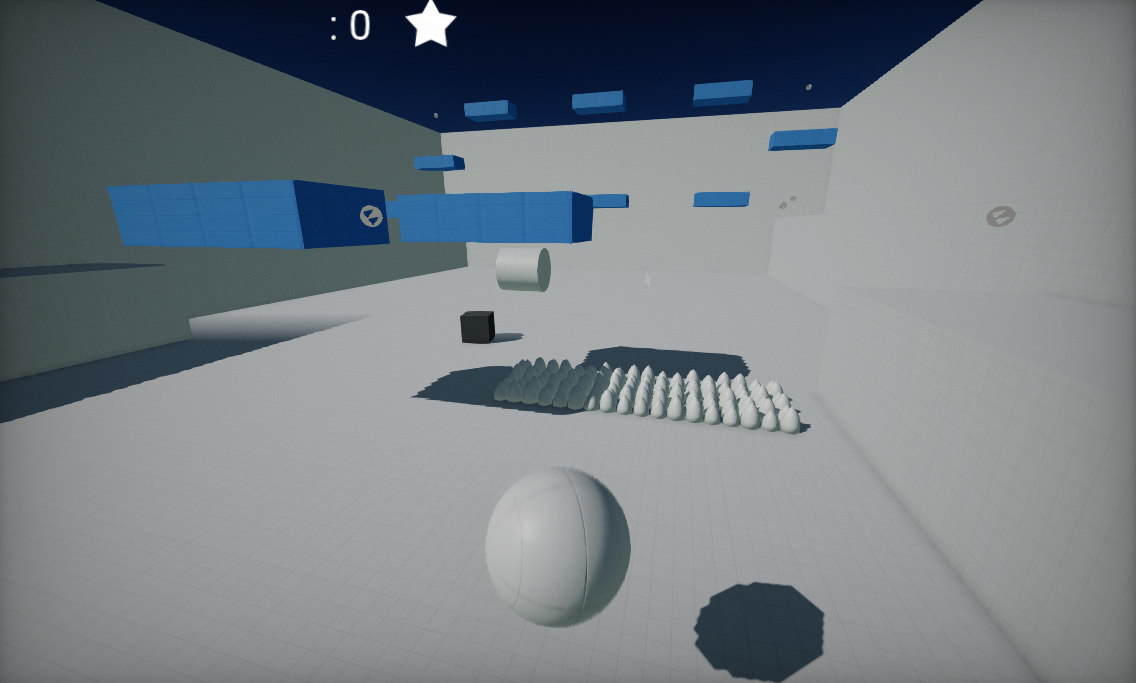
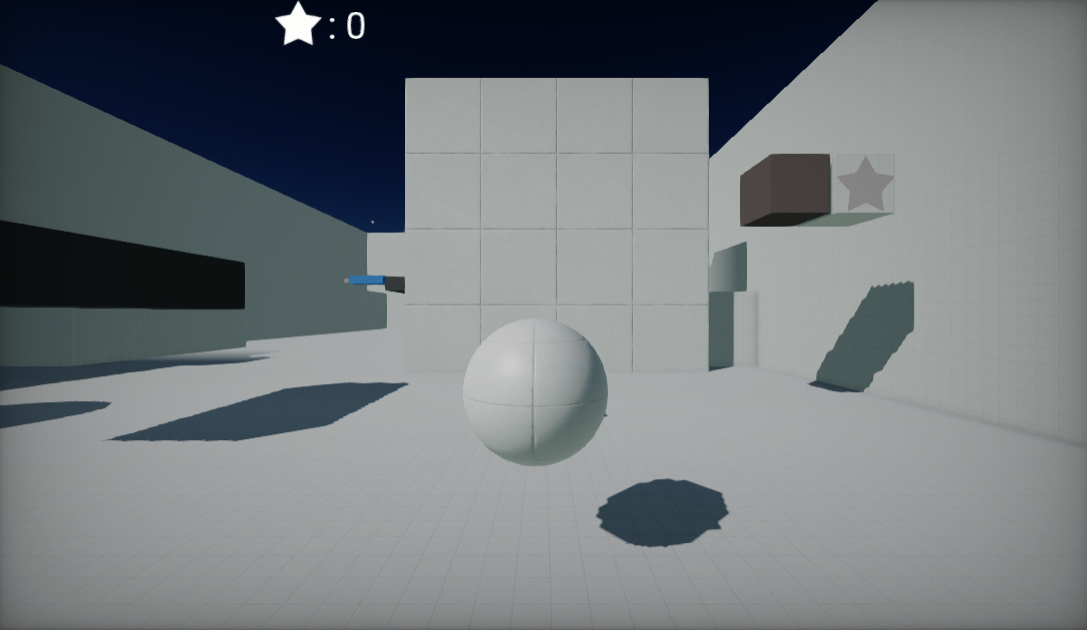
Readme and preview img change

diff --git a/README.md b/README.md
@@ -1,3 +1,5 @@
-# Third Person Shooter Template
+# Third Person Platformer WIP
+
+Started from the third person shooter template
 
 <img src="Preview.png">
